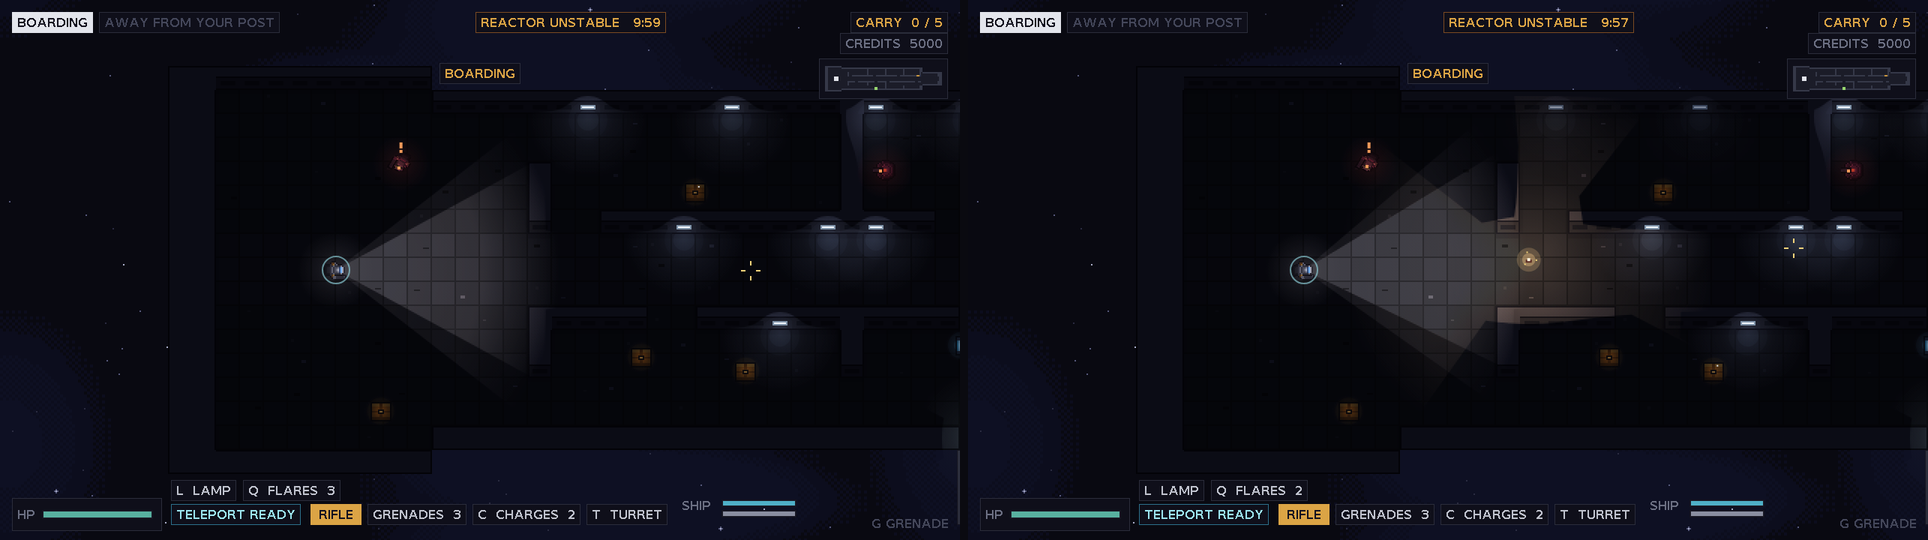
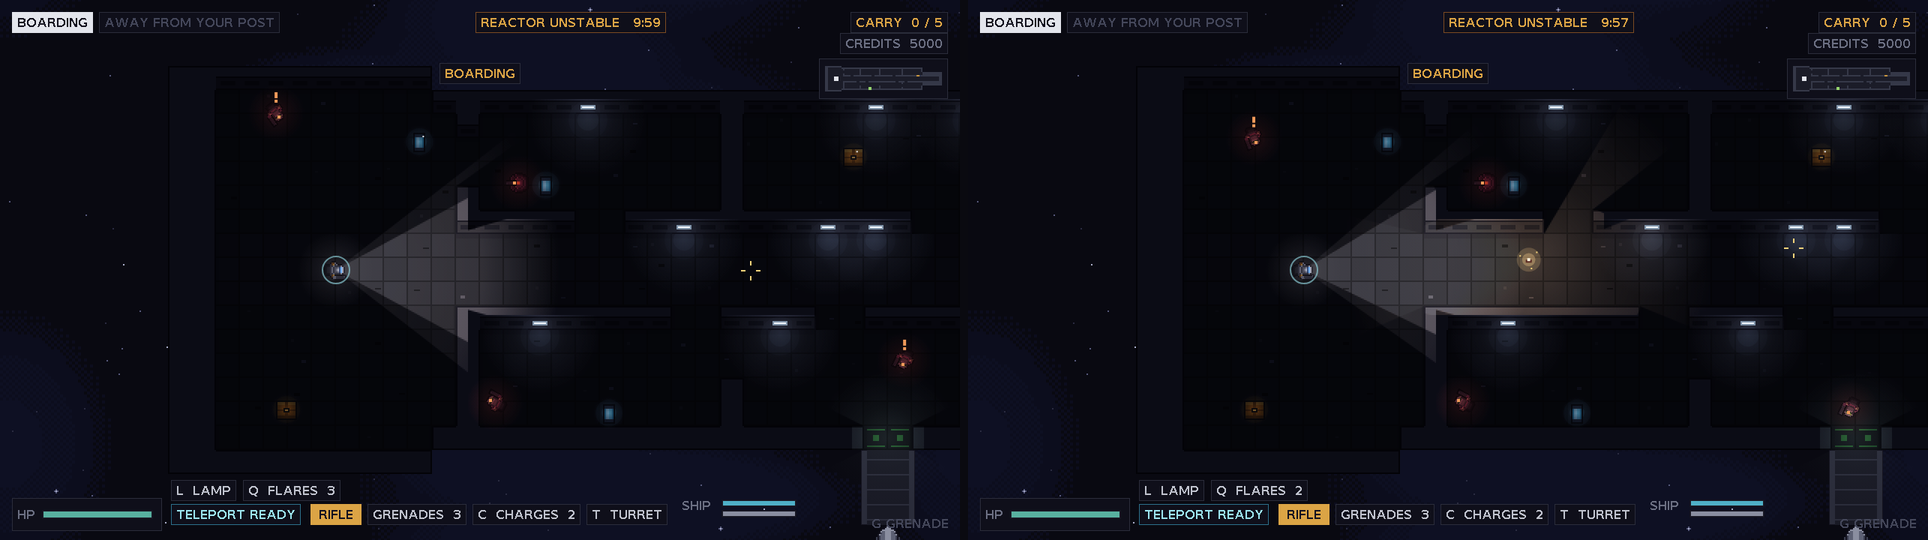
Fix light that fell wrongly on walls in dark places (B-164)
Light went a fixed way into a wall along each ray, so a wall that a beam
ran along was lit as a slanted wedge. The depth is now measured straight
into the wall, which lights an even strip. Light from below falls on the
front of a wall, and light from above or from the side only on its edge.

Claude-Session: https://claude.ai/code/session_019KYzr9o25siTo4kX1Z2A88

diff --git a/src/render/light.js b/src/render/light.js
@@ -9,11 +9,16 @@ import { TAU } from '../sim/util.js';
 const DARK = '#1f2338';
 // A little of the light is laid on top of the picture as well, so that what is lit also shines.
 const SHINE = 0.07;
-// Light reaches a little way into the wall it falls on, so that the wall itself is seen.
-const INTO_WALL = 12;
+// Light reaches a little way into the wall it falls on, so that the wall itself is seen. How far is measured
+// straight into the wall, so that a beam along a wall lights an even strip of it. A wall is drawn with its
+// front toward the bottom of the screen: light from below falls on that front, and light from above or from
+// the side only on the edge of its top.
+const INTO_FRONT = 10;
+const INTO_TOP = 6;
+const INTO_SIDE = 8;
 const stops = (c) => c === '#' || c === 'L';
 
-// How far a ray from x, y gets before a wall, at most r.
+// How far a ray from x, y gets, at most r: to the first wall and a little way into it.
 function reach(it, x, y, dx, dy, r) {
   let tx = Math.floor(x / TILE),
     ty = Math.floor(y / TILE);
@@ -23,19 +28,32 @@ function reach(it, x, y, dx, dy, r) {
     perY = dy ? TILE / Math.abs(dy) : Infinity;
   let nextX = dx ? (dx > 0 ? (tx + 1) * TILE - x : x - tx * TILE) / Math.abs(dx) : Infinity,
     nextY = dy ? (dy > 0 ? (ty + 1) * TILE - y : y - ty * TILE) / Math.abs(dy) : Infinity;
-  for (;;) {
-    let d;
-    if (nextX < nextY) {
-      d = nextX;
+  // One step to the next line between tiles. Says how far along the ray that is, and sets `fromSide`.
+  let fromSide = false;
+  const step = () => {
+    fromSide = nextX < nextY;
+    const d = fromSide ? nextX : nextY;
+    if (fromSide) {
       nextX += perX;
       tx += sx;
     } else {
-      d = nextY;
       nextY += perY;
       ty += sy;
     }
+    return d;
+  };
+  for (;;) {
+    const d = step();
     if (d >= r) return r;
-    if (stops(tileAt(it, tx, ty))) return d;
+    if (!stops(tileAt(it, tx, ty))) continue;
+    const deep = fromSide ? INTO_SIDE / Math.abs(dx) : (dy < 0 ? INTO_FRONT : INTO_TOP) / Math.abs(dy);
+    const end = Math.min(r, d + deep);
+    // Inside the wall the light goes on until it is deep enough, or until the wall ends.
+    for (;;) {
+      const e = step();
+      if (e >= end) return end;
+      if (!stops(tileAt(it, tx, ty))) return e;
+    }
   }
 }
 
@@ -70,8 +88,7 @@ export function litArea(it, x, y, r, heading = null, half = Math.PI) {
   for (const off of offs) {
     const dx = Math.cos(mid + off),
       dy = Math.sin(mid + off);
-    const d = reach(it, x, y, dx, dy, r);
-    const end = d < r ? Math.min(r, d + INTO_WALL) : r;
+    const end = reach(it, x, y, dx, dy, r);
     points.push([x + dx * end, y + dy * end]);
   }
   return points;

diff --git a/BACKLOG.md b/BACKLOG.md
@@ -305,3 +305,4 @@ Väntar på användaren: D-095 (faktionernas riktiga namn), D-074 (smuggelgods) 
 | F-136 | Ljus och skuggor för mer djup, inomhus: väggar stoppar ljuset och kastar skuggor, skott och explosioner lyser upp det som är nära, golvet är mörkare längs väggarna, och figurer och loot har en skugga under sig. Ljus i rymden ligger kvar i D-147 | 2026-11-15 |
 | F-159 | Vrak är mörka inuti. Man ser det närmaste runt sig och det ficklampan lyser på, och L tänder och släcker den. De få nödlampor som fungerar är kallt vita och några flimrar. Vakter och turrets har ett eget rött ljus, loot glimmar, valvdörren lyser och slussen hem är upplyst. Planritningen i hörnet visar fortfarande rummen | 2026-11-15 |
 | F-160 | Flares: köps i armory (FLARES, 60 krediter) och ger tre per bordning, som sprängladdningarna. Q kastar en dit man siktar. Den studsar mot väggar, lyser upp ungefär ett rum i 30 sekunder och falnar och flimrar långsamt de sista 8. Ljuset stoppas av väggar. Att fiender ser ljuset är F-161 | 2026-11-15 |
+| B-164 | Ljuset från ficklampa och flares föll fel på väggar: en vägg som ljuset gick längs med fick bara en sned kil av ljus, och skuggorna såg fel ut. Ljuset gick in i väggen längs strålen i stället för rakt in. Nu får väggen en jämn remsa, och ljus underifrån faller på väggens framsida medan ljus ovanifrån och från sidan bara når kanten | 2026-11-15 |
